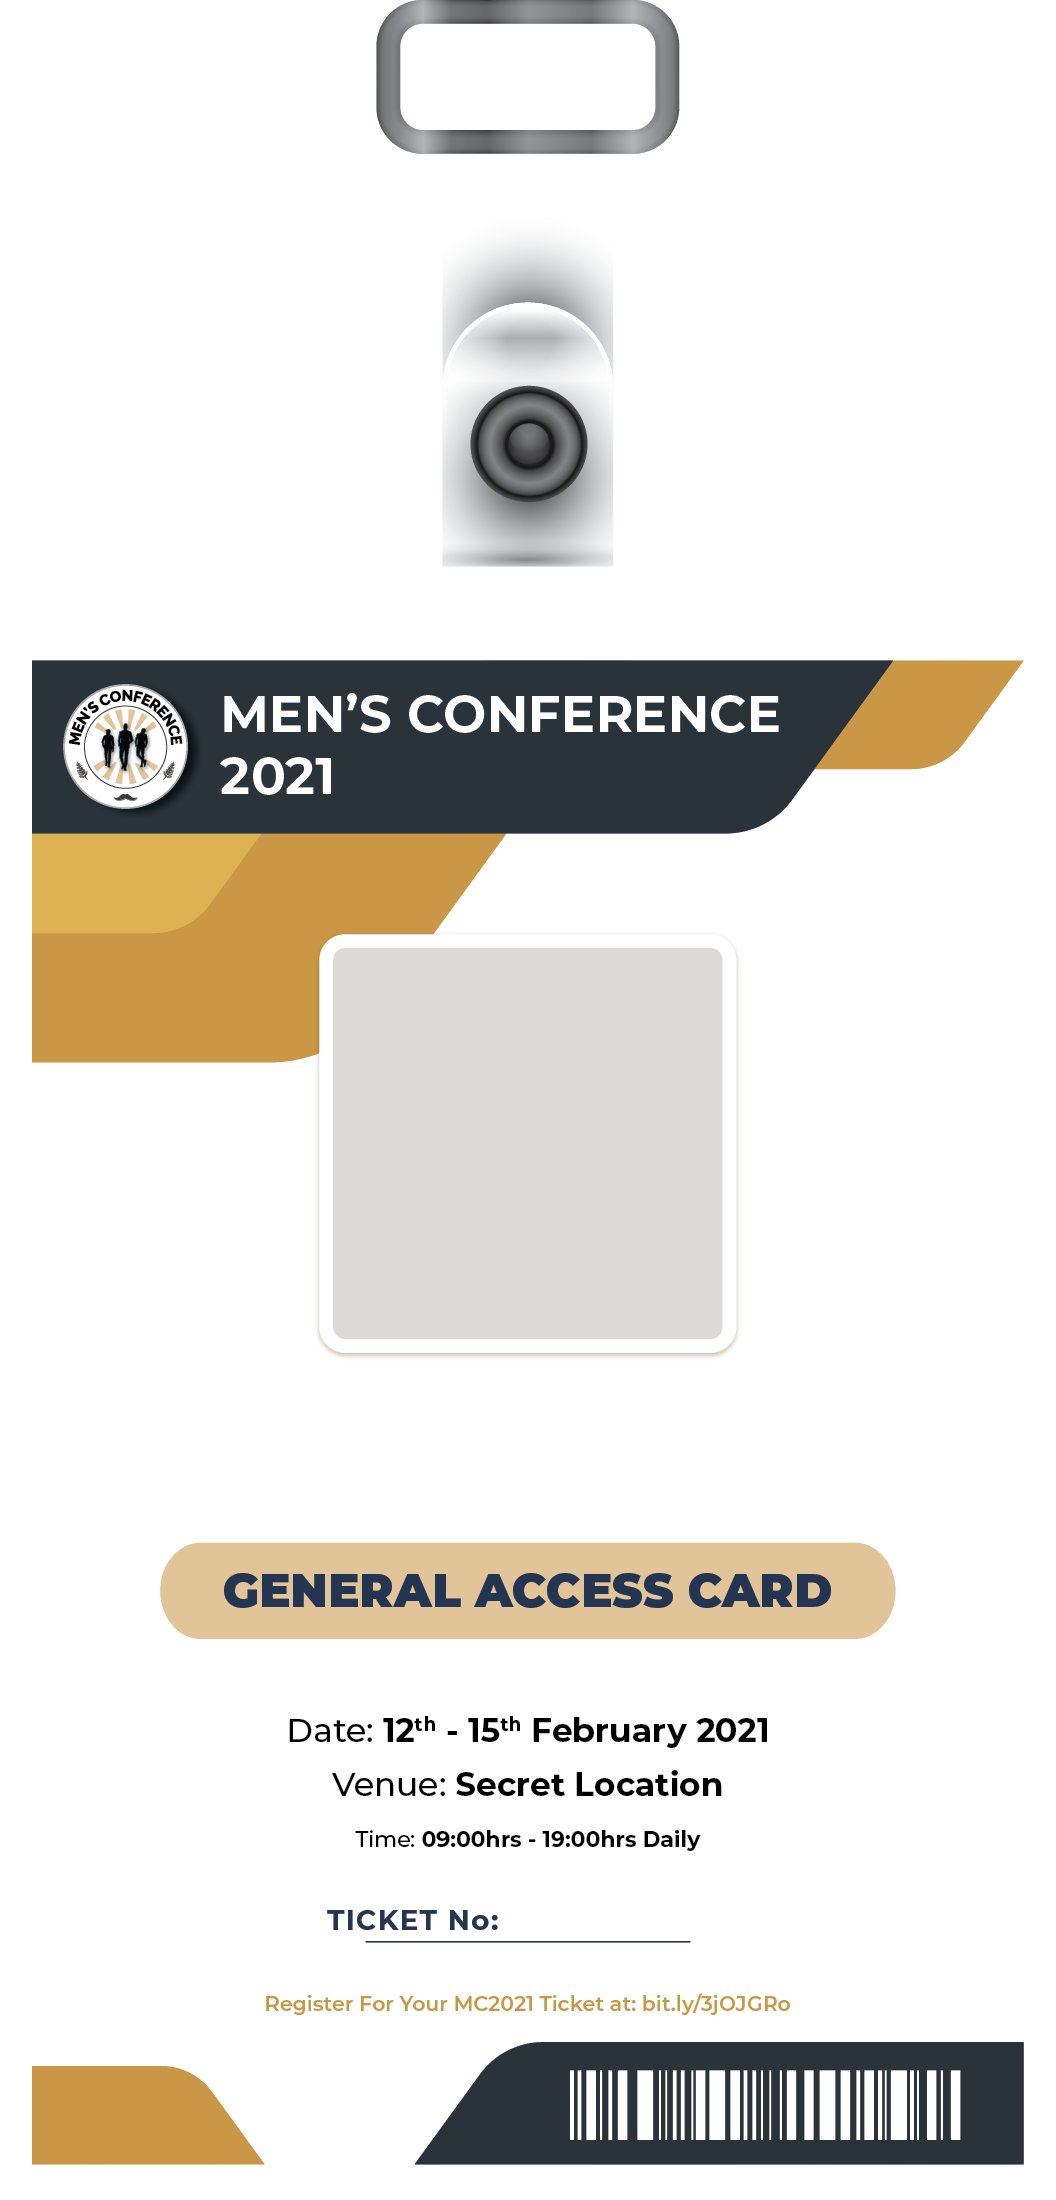
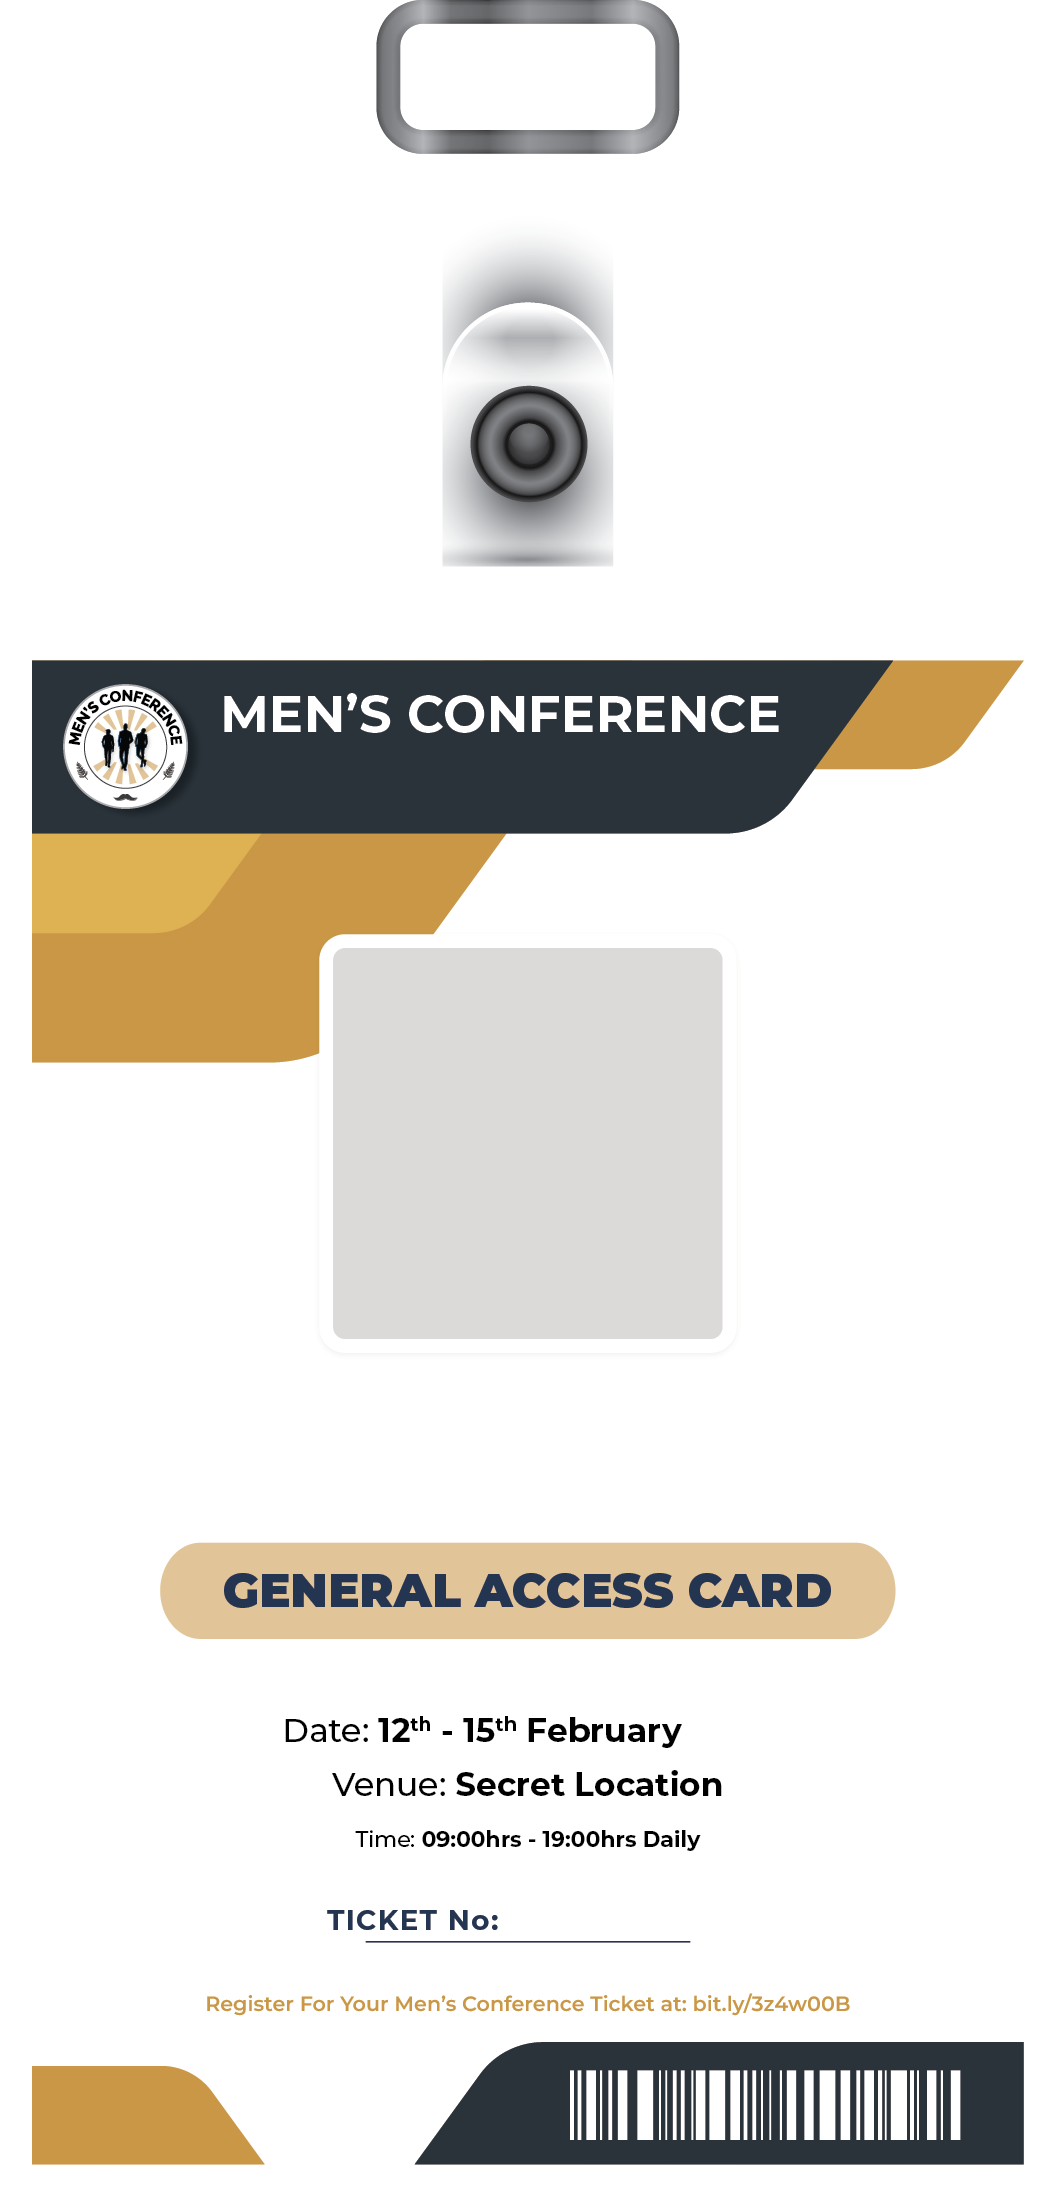
Updated program details and made year display dynamically.

diff --git a/index.html b/index.html
@@ -69,7 +69,7 @@
                 </div>
 
                 <div class="col-md-9 header-row__title-block text-center text-md-start">
-                    <h1 class="fw-bolder">Men's Conference 2021</h1>
+                    <h1 class="fw-bolder">Men's Conference <span class="current-year"></span></h1>
                     <h3 class="text-accent">Access Card Generator</h3>
                     <p class="fst-italic text-muted">Be part of this year's prestigious Men's Conference by generating your ticket/access card for the event.</p>
                 </div>
@@ -78,9 +78,9 @@
                 <div class="col-12 border border-1 border-secondary rounded p-4 mb-3">
                     <p>💡 This year, we will be discussing <b>important topics</b> such as:<br>(a) The Basics of Mjolo, (b) Knowing Your Worth, (c) How to Handle Rejection, and <a data-bs-toggle="tab" data-bs-target="#navProgramme">so much more...</a></p>
 
-                    <p>📉 There will also be a <b>major adjustment to the Girlfriend Allowance rates and policies</b>; we are dedicated to help you alleviate financial strain during this pandemic.</p>
+                    <p>📉 There will also be a <b>major adjustment to the Girlfriend Allowance rates and policies</b>; we are dedicated to help you alleviate financial strain during this economic crisis.</p>
 
-                    <p>⛔ With improved security at the MC2021 - <b>we will no longer be fooled by women attending the conference dressed up as men</b>. . . . . You might have fooled us in the previous years, Michelle, but <b>not this year</b> 🙄</p>
+                    <p>⛔ With improved security at the MC<span class="current-year"></span> - <b>we will no longer be fooled by spies showing up to the conference cosplaying/dressing up as men</b>. . . . . You might have fooled us in the previous years, Michelle, but <b>not this year</b> 🙄</p>
                 </div>
 
                 <hr>
@@ -251,17 +251,20 @@
                                     <div id="canvasAreaFront" class="canvas-area">
                                         <canvas id="cardPreviewCanvas" class="canvas-item" width="1056" height="2200"></canvas>
                                         <canvas id="detailEntryCanvas" class="canvas-item" width="1056" height="2200"></canvas>
+                                        <canvas id="yearDetailsCanvas" class="canvas-item" width="1056" height="2200"></canvas>
+                                        <canvas id="dateYearDetailsCanvas" class="canvas-item" width="1056" height="2200"></canvas>
                                         <canvas id="mugshotCanvas" class="canvas-item"  width="1056" height="2200"></canvas>
                                     </div>
 
                                     <!-- background image for canvas -->
-                                    <img id="canvasBGImage" class="img-fluid d-none" src="assets/img/basic_access_card.png" alt="Men's Conference 2021 Access Card" width="1056px" height="2000px">
+                                    <img id="canvasBGImage" class="img-fluid d-none" src="assets/img/basic_access_card.png" alt="Men's Conference Access Card" width="1056px" height="2000px">
                                 </div>
 
                                 <div class="slider-item">
                                     <div id="canvasAreaBack" class="canvas-area bg-light">
                                         <canvas id="cardPreviewCanvasB" class="canvas-item" width="1056" height="2200"></canvas>
                                         <canvas id="detailEntryCanvasB" class="canvas-item" width="1056" height="2200"></canvas>
+                                        <canvas id="yearDetailsCanvasB" class="canvas-item" width="1056" height="2200"></canvas>
                                     </div>
 
                                     <!-- background image for canvas -->
@@ -289,7 +292,7 @@
 
                         <div class="row p-3 py-5 p-md-5">
 
-                            <h3 class="fw-bold mb-3">Programme Details for the MC2021:</h3>
+                            <h3 class="fw-bold mb-3">Programme Details for the MC<span class="current-year"></span>:</h3>
 
                             <div class="col-12 col-md-6 p-3">
                                 <div class="table-responsive-sm">
@@ -326,7 +329,7 @@
                                             <tr><td><b>Session 4</b>: Keynote Speech from Guest Speaker(s)</td></tr>
                                             <tr><td><b>Session 5 [FW]</b>: Getting Rid of Your Sense of Entitlement</td></tr>
                                             <tr><td><b>Session 5 [FW]</b>: Being Your Sister's Keeper</td></tr>
-                                            <tr><td><b>Session 7 [FW]</b>: Consent. Learning to keep your hands to yourself <span class="badge bg-accent">IMPORTANT</span></td></tr>
+                                            <tr><td><b>Session 7 [FW]</b>: Consent. Learning to keep your hands to yourself <span class="badge bg-accent">MANDATORY</span></td></tr>
                                         </tbody>
                                     </table>
                                 </div>
@@ -345,10 +348,9 @@
                                         <tbody>
                                             <tr><td><b>Session 1</b>: The Basics of Mjolo</td></tr>
                                             <tr><td><b>Session 2</b>: 'Ba tla o hurdaa' - Recovery Techniques</td></tr>
-                                            <tr><td><b>Session 3</b>: Knowing Your Worth - You Are The Prize</td></tr>
-                                            <tr><td><b>Session 5</b>: To Simp or Not to Simp</td></tr>
-                                            <tr><td><b>Session 6</b>: How to Take your Ls (PEACEFULLY)</td></tr>
-                                            <tr><td><b>Entertainment </b>: Drinking Game: <i>Never Have I Ever</i></td></tr>
+                                            <tr><td><b>Session 3</b>: Knowing Your Worth</td></tr>
+                                            <tr><td><b>Session 5</b>: Having a Standard</td></tr>
+                                            <tr><td><b>Session 6</b>: How to Take your Ls (RESPECTFULLY)</td></tr>
                                             <tr><td><b>Session 7</b>: Pre-nups: The Pros and Cons (if any)</td></tr>
                                         </tbody>
                                     </table>
@@ -386,9 +388,22 @@
 
                         <div class="row p-3 py-5 p-md-5">
 
-                            <h3 class="fw-bold mb-5">List of Guest Speakers for the MC2021:</h3>
+                            <h3 class="fw-bold mb-5">List of Guest Speakers for the MC<span class="current-year"></span>:</h3>
 
-                            <div class="col-md-6">
+                            <div class="col-12 col-md-3">
+                                <div class="card mb-3">
+                                    <img src="assets/img/empty-avatar.png" class="card-img-top" alt="...">
+                                    <div class="card-body">
+                                        <h5 class="card-title fw-bold">TBA</h5>
+                                        <p class="card-text"></p>
+                                    </div>
+                                    <div class="card-footer">
+                                        <p class="card-text"><small class="text-muted">Last updated 5 months ago</small></p>
+                                    </div>
+                                </div>
+                            </div>
+
+                            <div class="col-12 col-md-3">
                                 <div class="card mb-3">
                                     <img src="assets/img/empty-avatar.png" class="card-img-top" alt="...">
                                     <div class="card-body">
@@ -415,7 +430,7 @@
 
                         <div class="row p-3 py-5 p-md-5">
 
-                            <h3 class="fw-bold mb-5">List of Supplies/Services Needed the MC2021:</h3>
+                            <h3 class="fw-bold mb-5">List of Supplies/Services Needed the MC<span class="current-year"></span>:</h3>
 
                             <div class="table-responsive-sm">
                                 <table class="table table-bordered table-light align-middle">
@@ -432,7 +447,7 @@
                                             <th scope="row"><img draggable="false" src="assets/img/hackernam.png" alt="hackerman" width="150" /></th>
                                             <td><h6 class="fw-bold text-danger">Hacker Wanted</h6></td>
                                             <td>Hackerman needed to disable all mobile banking features nationwide. <b>#EWalletMustFall</b></td>
-                                            <td>14th February 2021</td>
+                                            <td>14th February <span class="current-year"></span></td>
                                         </tr>
                                     </tbody>
                                 </table>
@@ -460,7 +475,7 @@
         <!-- \\ footer -->
         <footer id="siteFooter" class="py-3 bg-dark">
             <div class="container">
-                <h6 class="text-lead">Website developed by <a href="https://yakubushehu.com" target="_blank">YS</a> | &copy; 2021</h6>
+                <h6 class="text-lead">Website developed by <a href="https://yakubushehu.com" target="_blank">YS</a> | &copy; 2021 - <span class="current-year"></span></h6>
                 <span class="text-muted small">Made in <img src="assets/img/namibia-flag.svg" class="img-fluid" width="20px" draggable="false" /> for gents, by gents</span><span> ✊🏽</span>
                 <p class="text-muted small fst-italic mb-0">with help from The Man Cave</p>
             </div>
@@ -493,6 +508,10 @@
                 dots: true,
                 arrows: true,
                 infinite: false
+            });
+            
+            $('.current-year').each(function() {
+                $(this).html(new Date().getFullYear());
             });
         </script>
 

diff --git a/assets/js/scripts.js b/assets/js/scripts.js
@@ -1,6 +1,10 @@
 // key variables
 var mName, mNumber, mPhoto;
 
+const currentYear = new Date().getFullYear();
+
+const rLink = ``
+
 let cardCanvasFront = $("#cardPreviewCanvas")[0];
 let ctx_CC = cardCanvasFront.getContext("2d");
 ctx_CC.font = "600 30px Roboto, sans-serif";
@@ -11,6 +15,20 @@ let ctx_TC = textCanvasFront.getContext("2d");
 ctx_TC.font = "600 50px Roboto, sans-serif";
 ctx_TC.fillStyle = "#2A333A";
 ctx_TC.fillStyle = "textAlign=center";
+
+let yearCanvasFront = $("#yearDetailsCanvas")[0];
+let ctx_TCD_Y = yearCanvasFront.getContext("2d");
+ctx_TCD_Y.font = "600 55px Roboto, sans-serif";
+ctx_TCD_Y.fillStyle = "#FFFFFF";
+ctx_TCD_Y.fillStyle = "textAlign=center";
+ 
+let dateYearCanvasFront = $("#dateYearDetailsCanvas")[0];
+let ctx_TCD_DY = dateYearCanvasFront.getContext("2d");
+ctx_TCD_DY.font = "800 35px Roboto, sans-serif";
+ctx_TCD_DY.fillStyle = "#000000";
+ctx_TCD_DY.fillStyle = "textAlign=center";
+
+
 
 let mugshotCanvas = $("#mugshotCanvas")[0];
 let ctx_MSC = mugshotCanvas.getContext("2d");
@@ -28,6 +46,12 @@ let ctx_TC_B = textCanvasBack.getContext("2d");
 ctx_TC_B.font = "600 50px Roboto, sans-serif";
 ctx_TC_B.fillStyle = "#2A333A";
 ctx_TC_B.fillStyle = "textAlign=center";
+
+let yearCanvasBack = $("#yearDetailsCanvasB")[0];
+let ctx_TCD_Y_B = yearCanvasBack.getContext("2d");
+ctx_TCD_Y_B.font = "600 45px Roboto, sans-serif";
+ctx_TCD_Y_B.fillStyle = "#FFFFFF";
+ctx_TCD_Y_B.fillStyle = "textAlign=center";
 
 
 
@@ -67,6 +91,25 @@ function roundedImage(x, y, width, height, radius) {
 
 
 
+// generate Current Year - front and back
+function drawCurrentYear(location) {
+
+    if (location.match('front')) {
+        ctx_TCD_Y.fillText(currentYear, 222, 800, 869) //s, x, y, mw
+        ctx_TCD_DY.fillText(currentYear, 690, 1743, 100) //s, x, y, mw
+        ctx_TCRL.fillText(currentYear, 690, 1743, 869) //s, x, y, mw
+    }
+    else if (location.match('back')) {
+        ctx_TCD_Y_B.fillText(currentYear, 145, 885, 869) //s, x, y, mw
+    }
+}
+
+
+
+
+
+
+
 // generate random Ticket Number - front and back
 function drawTicketNum(location) {
 
@@ -92,6 +135,7 @@ function drawBackgroundImage() {
     cardBackground.onload = function() {
         ctx_CC.drawImage(cardBackground, 0,0);
         drawTicketNum('front');
+        drawCurrentYear('front');
     }
     cardBackground.onerror = function() { cardBackground.src = './assets/img/nth_basic_access_card.png'; }
 
@@ -99,6 +143,7 @@ function drawBackgroundImage() {
     cardBackground_B.onload = function() {
         ctx_CC_B.drawImage(cardBackground_B, 0,0);
         drawTicketNum('back');
+        drawCurrentYear('back');
     }
     cardBackground_B.onerror = function() { cardBackground.src = './assets/img/ts_and_cs.png'; }
 }
@@ -153,6 +198,8 @@ function combineCanvases(location) {
     if(location.match('front')) {
         ctx_MC.drawImage(cardCanvasFront, 0, 0);
         ctx_MC.drawImage(textCanvasFront, 0, 0);
+        ctx_MC.drawImage(yearCanvasFront, 0, 0);
+        ctx_MC.drawImage(dateYearCanvasFront, 0, 0);
         ctx_MC.drawImage(mugshotCanvas, 0, 0);
     }
 
